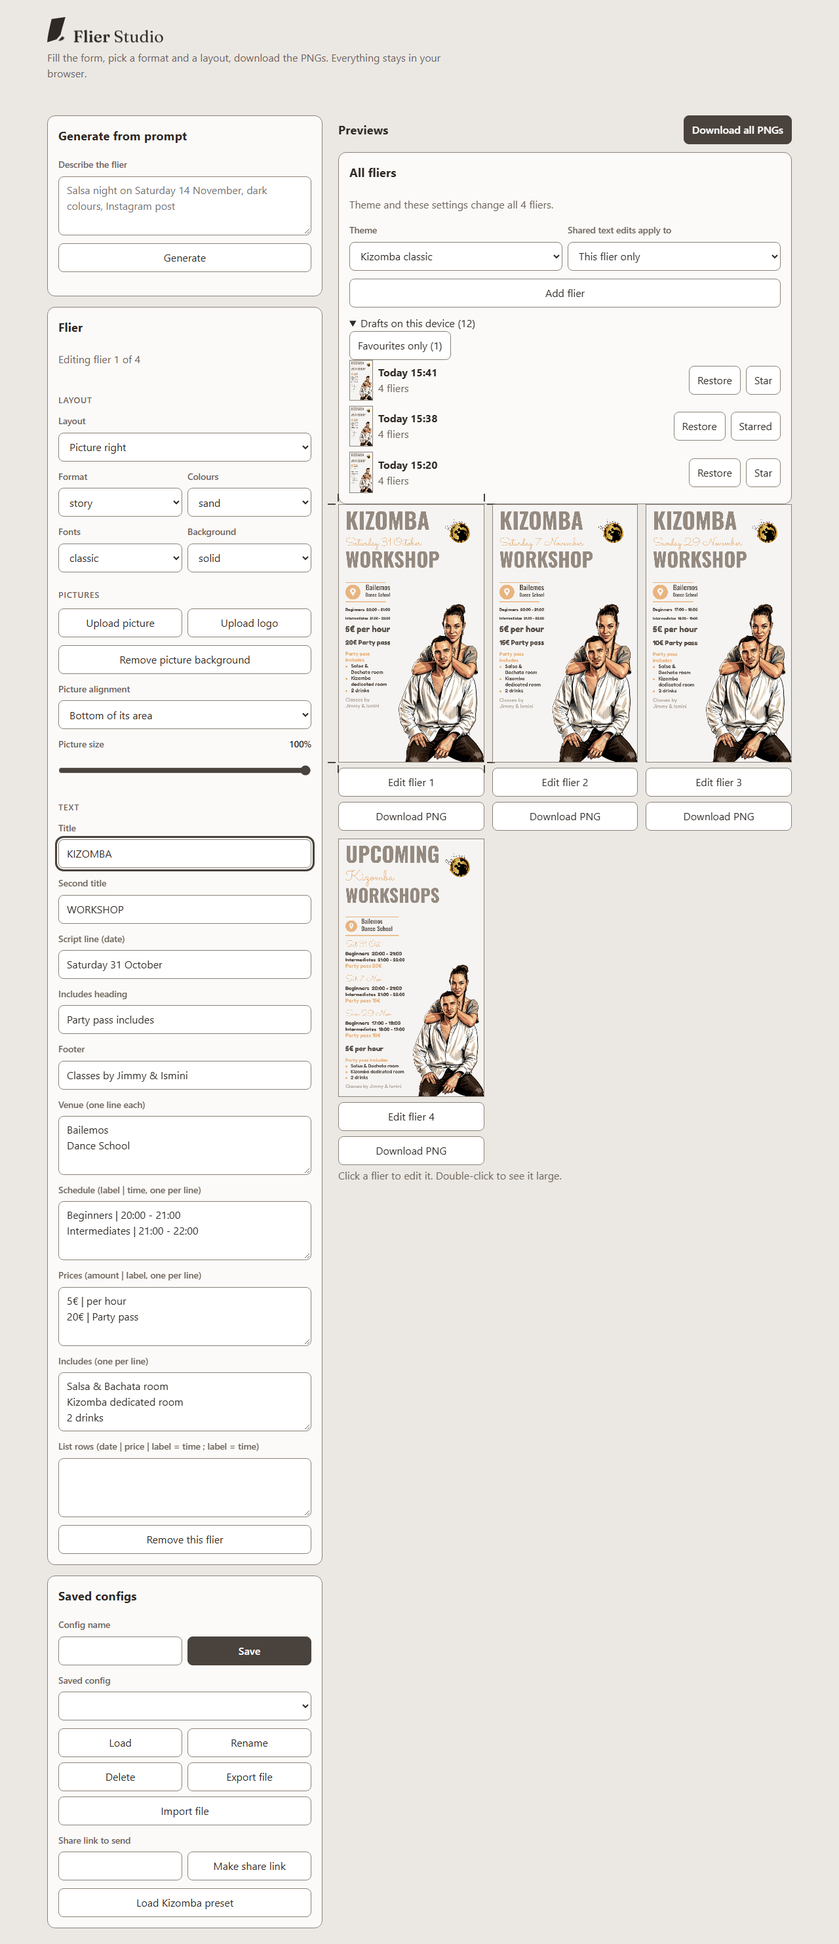
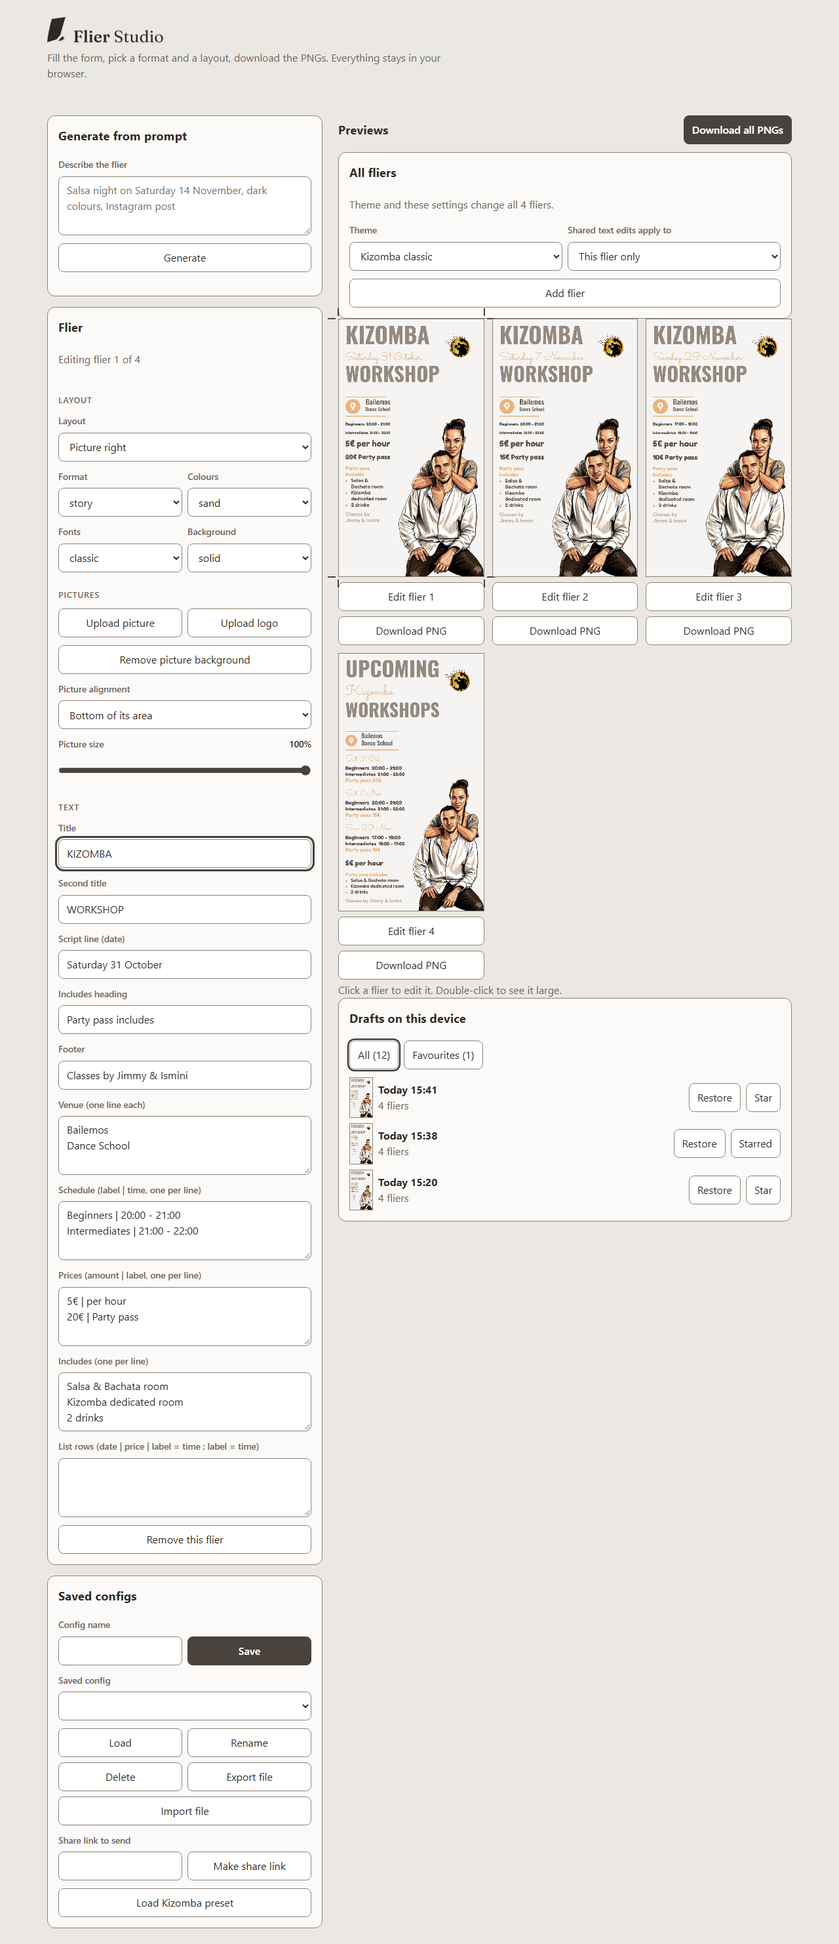
docs(design): FLIER-2 "Flier Studio follow-ups" AC-18..23 options r2
visual-review: docs/design/FLIER-2-AC18-20/critique-2026-10-28.md

diff --git a/docs/design/FLIER-2-AC18-20/index.html b/docs/design/FLIER-2-AC18-20/index.html
@@ -112,14 +112,14 @@ td, th { border-top: 1px solid var(--line); padding: 6px 8px; text-align: left; 
 </head>
 <body>
 <main>
-<p class="withdrawn" role="note">Withdrawn — do not pick. design-critic 2026-10-28: A REDO (fliers pushed below the desktop fold), B and C REDO (hard fail: "Add flier / Download all PNGs" row misaligned at 360; C also clips the drafts strip and the enlarged flier). Redrawn options will replace this page. Score sheet: critique-2026-10-28.md.</p>
+<p class="withdrawn" role="note">Critic pending — do not pick. Round 2 (2026-10-28) applies every fix from critique-2026-10-28.md; design-critic has not judged it yet.</p>
 <h1>Where the settings for all fliers live</h1>
-<p class="meta">FLIER-2 "Flier Studio follow-ups", AC-18 select on click · AC-19 "All fliers" section · AC-20 double-click enlarge · AC-21..23 drafts and favourites (D11, D12). Before = live https://fliers.dloizides.com at 98ca2bc; after = the same build with the option drawn in by moving its real controls (mockup, `mockups.ts`). Same route, steps, fixture (Kizomba preset, 4 fliers, fresh storage), viewport and anchor on both sides (`result.json`, pairMethod same-steps). Inventory: 63 items for the one role, Visitor (task folder `FLIER-2-AC18-20-inventory.md`); "Theme applies to" is dropped by D11 in every option.</p>
+<p class="meta">FLIER-2 "Flier Studio follow-ups", AC-18 select on click · AC-19 "All fliers" section · AC-20 double-click enlarge · AC-21..23 drafts and favourites (D11, D12). Before = live https://fliers.dloizides.com at 98ca2bc; after = the same build with the option drawn in by moving its real controls (mockup, `mockups.ts`). Same route, steps, fixture (Kizomba preset, 4 fliers, fresh storage), viewport and anchor on both sides (`result.json`, pairMethod same-steps). Inventory: 52/52 first-load items for the one role, Visitor, measured in `result.json` (63 rows in `FLIER-2-AC18-20-inventory.md`: 11 are state-only and not on any first-load frame; "Theme applies to" is dropped by D11 in every option). Round 2 probes, run on every frame and failing the capture run on a miss: side-by-side form controls share top edge and height within 1px; the enlarged flier and its buttons sit inside 360x640 and 1280x800 with no scrolling; no text leaves its card.</p>
 
-<article data-option="A" data-inventory="63/63" data-aligned="pass" data-result="result.json">
+<article data-option="A" data-inventory="52/52" data-aligned="pass" data-result="result.json">
 <h2>A. "All fliers" card on top of the previews</h2>
-<p>Theme and "Shared text edits apply to" sit side by side in one card above the fliers they change, with Add flier and the Drafts list under them. Click a flier to edit it; double-click opens the full-size sheet the phone bar already uses.</p>
-<p class="meta"><strong>Inventory:</strong> 63/63 (4 moved into the card, 1 dropped D11) · form rows aligned: pass (0 rows off by more than 1px) · Drafts: open disclosure in the card, Favourites only toggle, Restore + Star per draft.</p>
+<p>Theme and "Shared text edits apply to" sit side by side in one short card above the fliers they change, with Add flier under them; the first flier starts at y = 485 at 1280 (round 1: 767). Drafts get their own card under the previews with an All (12) / Favourites (1) filter. Click a flier to edit it; double-click opens the full-size sheet the phone bar already uses.</p>
+<p class="meta"><strong>Inventory:</strong> 52/52 (4 moved into the card, 1 dropped D11) · form rows aligned: pass (top + height, 0 pairs off by more than 1px) · enlarge fits 360x640 and 1280x800 · Drafts: own card under the previews, All / Favourites chips, Restore + Star per draft.</p>
 <h3>First load, 1280x800, full page</h3>
 <div class="pair"><figure data-visual="before"><div class="scroll"><img src="before-load-1280.png" alt="Before at 1280: Theme and Theme applies to at the top of the Flier card"></div><figcaption>Before</figcaption></figure><figure data-visual="after"><div class="scroll"><img src="A-load-1280.png" alt="After A at 1280: All fliers card above the preview grid with Theme, scope, Add flier and Drafts"></div><figcaption>After</figcaption></figure></div>
 <h3>First load, 360x640, full page</h3>
@@ -130,10 +130,10 @@ td, th { border-top: 1px solid var(--line); padding: 6px 8px; text-align: left; 
 <table><tr><th>Screen</th><th>Focused on open (FOCUS-1)</th><th>Why</th></tr><tr><td>Studio</td><td>Title field at ≥1024, none on phone (today)</td><td>The title is the first thing to change; no keyboard pop on phone</td></tr><tr><td>Enlarge sheet</td><td>Close</td><td>Looking is the job; Close (or Esc) returns focus to the flier</td></tr></table>
 </article>
 
-<article data-option="B" data-inventory="63/63" data-aligned="pass" data-result="result.json">
+<article data-option="B" data-inventory="52/52" data-aligned="pass" data-result="result.json">
 <h2>B. "All n fliers" card first in the controls column</h2>
-<p>Everything that acts on the whole set gathers in one card above the Flier form: Theme, the shared-edits scope, Add flier, Download all and the share link. Drafts join the saved sets card. Double-click opens a larger dialog that steps through the set.</p>
-<p class="meta"><strong>Inventory:</strong> 63/63 (6 moved into the card, 1 dropped D11) · form rows aligned: pass · Drafts: in "Saved sets", All drafts / Favourites switch.</p>
+<p>Everything that acts on the whole set gathers in one card above the Flier form: Theme, the shared-edits scope, Add flier, Download all and the share link. Below 400px wide, Add flier and Download all PNGs stack full width; wider, they share one row at one height. Drafts get their own card under Saved configs. Double-click opens a larger dialog that steps through the set.</p>
+<p class="meta"><strong>Inventory:</strong> 52/52 (6 moved into the card, 1 dropped D11) · form rows aligned: pass (top + height) · enlarge fits both viewports · Drafts: own card, All / Favourites chips.</p>
 <h3>First load, 1280x800, full page</h3>
 <div class="pair"><figure data-visual="before"><div class="scroll"><img src="before-load-1280.png" alt="Before at 1280"></div><figcaption>Before</figcaption></figure><figure data-visual="after"><div class="scroll"><img src="B-load-1280.png" alt="After B at 1280: All 4 fliers card between Prompt and Flier"></div><figcaption>After</figcaption></figure></div>
 <h3>First load, 360x640, full page</h3>
@@ -144,10 +144,10 @@ td, th { border-top: 1px solid var(--line); padding: 6px 8px; text-align: left; 
 <table><tr><th>Screen</th><th>Focused on open (FOCUS-1)</th><th>Why</th></tr><tr><td>Studio</td><td>Title field at ≥1024, none on phone (today)</td><td>Unchanged</td></tr><tr><td>Enlarge dialog</td><td>Next flier</td><td>The dialog is for checking the set; Esc returns focus to the flier</td></tr></table>
 </article>
 
-<article data-option="C" data-inventory="63/63" data-aligned="pass" data-result="result.json">
+<article data-option="C" data-inventory="52/52" data-aligned="pass" data-result="result.json">
 <h2>C. Sticky set bar with one chip per theme</h2>
-<p>A bar pinned to the top of the previews while they scroll: one chip per theme, so a switch is one tap and its effect is in view, plus the scope, Add flier and Download all. Drafts run as a thumbnail strip under the fliers. Double-click opens the full-size sheet with the flier number and a Download.</p>
-<p class="meta"><strong>Inventory:</strong> 63/63 (Theme select becomes chips, 4 moved into the bar, 1 dropped D11) · form rows aligned: pass · Drafts: strip below the previews, All / Favourites chips.</p>
+<p>A bar pinned to the top of the previews while they scroll: one chip per theme, so a switch is one tap and its effect is in view, plus the scope, Add flier and Download all. Add flier and Download all PNGs stack below 400px wide. Drafts sit as thumbnail tiles under the fliers, wrapping to two per row on a phone so no tile is cut. Double-click opens the full-size sheet with the flier number and a Download, sized so the whole flier and its buttons fit 360x640 and 1280x800.</p>
+<p class="meta"><strong>Inventory:</strong> 52/52 (Theme select becomes chips, 4 moved into the bar, 1 dropped D11) · form rows aligned: pass (top + height) · enlarge fits both viewports · Drafts: wrapping tiles below the previews, All / Favourites chips.</p>
 <h3>First load, 1280x800, full page</h3>
 <div class="pair"><figure data-visual="before"><div class="scroll"><img src="before-load-1280.png" alt="Before at 1280"></div><figcaption>Before</figcaption></figure><figure data-visual="after"><div class="scroll"><img src="C-load-1280.png" alt="After C at 1280: set bar with theme chips above the grid, Drafts strip below"></div><figcaption>After</figcaption></figure></div>
 <h3>First load, 360x640, full page</h3>
@@ -160,11 +160,11 @@ td, th { border-top: 1px solid var(--line); padding: 6px 8px; text-align: left; 
 
 <div class="q" data-qid="q1"><p class="qn"><span class="qi">Q1</span> Which layout should Flier Studio build for the "All fliers" settings, drafts and enlarge view?</p>
 <ul class="opts">
-<li data-letter="A"><span class="lt">A</span><span>"All fliers" card on top of the previews, drafts inside it, the existing full-size sheet</span></li>
-<li data-letter="B"><span class="lt">B</span><span>"All n fliers" card first in the controls, drafts in Saved sets, a stepping dialog</span></li>
+<li data-letter="A"><span class="lt">A</span><span>"All fliers" card on top of the previews, drafts in their own card under the fliers, the existing full-size sheet</span></li>
+<li data-letter="B"><span class="lt">B</span><span>"All n fliers" card first in the controls, drafts in their own card, a stepping dialog</span></li>
 <li data-letter="C"><span class="lt">C</span><span>Sticky set bar with theme chips, drafts strip under the fliers, full-size sheet with Download</span></li>
 </ul>
-<p class="why">All three keep 63/63 items and select a flier on click. They differ in where the whole-set settings sit relative to the fliers they change.</p></div>
+<p class="why">All three keep 52/52 first-load items and select a flier on click. They differ in where the whole-set settings sit relative to the fliers they change.</p></div>
 </main>
 </body>
 </html>

diff --git a/docs/design/FLIER-2-AC18-20/mockups.ts b/docs/design/FLIER-2-AC18-20/mockups.ts
@@ -25,14 +25,20 @@ export function mockup(side: string): void {
     .mk-drafts { display: grid; gap: 8px; margin: 0; padding: 0; list-style: none; }
     .mk-drafts li { display: grid; grid-template-columns: auto 1fr auto auto; gap: 8px; align-items: center; }
     .mk-drafts canvas { border: 1px solid var(--border); display: block; }
-    .mk-strip { display: flex; gap: var(--gap); overflow-x: auto; padding-bottom: 4px; }
-    .mk-strip li { grid-template-columns: auto; justify-items: start; min-width: 96px; }
+    .mk-strip { display: grid; grid-template-columns: repeat(auto-fill, minmax(112px, 1fr)); gap: var(--gap); }
+    .mk-strip li { grid-template-columns: auto; justify-items: start; min-width: 0; }
+    .mk-strip li > * { max-width: 100%; }
+    .mk-strip button { width: 100%; }
+    .row.mk-pair { display: grid; grid-template-columns: 1fr 1fr; align-items: stretch; }
+    .row.mk-pair > * { width: 100%; }
+    @media (max-width: 400px) { .row.mk-pair { grid-template-columns: 1fr; } }
     .mk-chips { display: flex; flex-wrap: wrap; gap: 8px; }
     .mk-chips button { width: auto; flex: 0 0 auto; }
     .mk-chips [aria-pressed="true"] { outline: 2px solid currentColor; outline-offset: 1px; }
     .mk-bar { position: sticky; top: 0; z-index: 2; }
     .mk-big { max-width: min(92vw, 720px); }
     .mk-big canvas { display: block; max-width: 100%; max-height: calc(100dvh - 300px); width: auto; height: auto; margin: 0 auto; }
+    .mini-sheet.mk-sheet-c canvas { max-height: calc(100dvh - 220px); }
   ` }));
 
   const label = (id: string): HTMLElement => q(id).closest('label') as HTMLElement;
@@ -51,34 +57,30 @@ export function mockup(side: string): void {
   const grid = q('preview-grid');
   grid.after(hint);
 
+  const draftsCard = (list: HTMLElement): HTMLElement => mk('section', { class: 'card', 'data-testid': 'drafts-panel' }, [
+    mk('h2', { text: 'Drafts on this device' }),
+    mk('div', { class: 'mk-chips', role: 'group', 'aria-label': 'Show drafts' }, [Object.assign(btn('All (12)', 'drafts-all'), { ariaPressed: 'true' }), Object.assign(btn('Favourites (1)', 'drafts-favourites'), { ariaPressed: 'false' })]),
+    list,
+  ]);
   if (side === 'A') {
     const card = mk('section', { class: 'card', 'data-testid': 'all-fliers' }, [
       mk('h2', { text: 'All fliers' }),
       mk('p', { class: 'muted', text: `Theme and these settings change all ${String(count)} fliers.` }),
       mk('div', { class: 'row' }, [themeLabel, scopeLabel]),
       mk('div', { class: 'row' }, [q('add-flier')]),
-      mk('details', { open: '', 'data-testid': 'drafts-panel' }, [
-        mk('summary', { text: 'Drafts on this device (12)' }),
-        mk('div', { class: 'mk-chips' }, [Object.assign(btn('Favourites only (1)', 'drafts-favourites'), { ariaPressed: 'false' })]),
-        draftRows(''),
-      ]),
     ]);
     previews.querySelector('.row.head')?.after(card);
+    hint.after(draftsCard(draftRows('')));
   }
   if (side === 'B') {
     const card = mk('section', { class: 'card', 'data-testid': 'all-fliers' }, [
       mk('h2', { text: `All ${String(count)} fliers` }),
       mk('div', { class: 'row' }, [themeLabel, scopeLabel]),
-      mk('div', { class: 'row' }, [q('add-flier'), q('download-all')]),
+      mk('div', { class: 'row mk-pair' }, [q('add-flier'), q('download-all')]),
       q('config-share').closest('.row') as HTMLElement,
     ]);
     q('flier-form').before(card);
-    const config = q('config-name').closest('section') as HTMLElement;
-    config.querySelector('h2')?.after(mk('div', { 'data-testid': 'drafts-panel' }, [
-      mk('h3', { text: 'Drafts on this device' }),
-      mk('div', { class: 'row', role: 'group', 'aria-label': 'Show' }, [Object.assign(btn('All drafts (12)', 'drafts-all'), { ariaPressed: 'true' }), Object.assign(btn('Favourites (1)', 'drafts-favourites'), { ariaPressed: 'false' })]),
-      draftRows(''),
-    ]));
+    (q('config-name').closest('section') as HTMLElement).after(draftsCard(draftRows('')));
   }
   if (side === 'C') {
     const pick = q<HTMLSelectElement>('pick-theme');
@@ -88,14 +90,10 @@ export function mockup(side: string): void {
     const bar = mk('section', { class: 'card mk-bar', 'data-testid': 'all-fliers' }, [
       mk('h2', { text: `All ${String(count)} fliers · theme` }), chips,
       mk('div', { class: 'row' }, [scopeLabel]),
-      mk('div', { class: 'row' }, [q('add-flier'), q('download-all')]),
+      mk('div', { class: 'row mk-pair' }, [q('add-flier'), q('download-all')]),
     ]);
     previews.querySelector('.row.head')?.after(bar);
-    hint.after(mk('section', { class: 'card', 'data-testid': 'drafts-panel' }, [
-      mk('h2', { text: 'Drafts on this device' }),
-      mk('div', { class: 'mk-chips' }, [Object.assign(btn('All (12)', 'drafts-all'), { ariaPressed: 'true' }), Object.assign(btn('Favourites (1)', 'drafts-favourites'), { ariaPressed: 'false' })]),
-      draftRows('mk-strip'),
-    ]));
+    hint.after(draftsCard(draftRows('mk-strip')));
   }
 
   const enlarge = (fig: HTMLElement): void => {
@@ -120,6 +118,7 @@ export function mockup(side: string): void {
     full.width = src.width; full.height = src.height;
     full.getContext('2d')?.drawImage(src, 0, 0);
     sheet.setAttribute('aria-label', `Flier ${n}, full size`);
+    if (side === 'C') sheet.classList.add('mk-sheet-c');
     if (side === 'C') q('mini-close').before(mk('div', { class: 'row' }, [mk('span', { class: 'muted', text: `Flier ${n} of ${String(count)} · Esc closes` }), btn(`Download flier ${n}`, 'enlarge-download')]));
     document.body.append(sheet);
     sheet.showModal();

diff --git a/docs/design/FLIER-2-AC18-20/capture.spec.ts b/docs/design/FLIER-2-AC18-20/capture.spec.ts
@@ -1,4 +1,4 @@
-import { devices, test, type Page } from '@playwright/test';
+import { devices, expect, test, type Page } from '@playwright/test';
 import { mkdirSync, writeFileSync } from 'node:fs';
 import { join } from 'node:path';
 import { mockup } from './mockups';
@@ -12,27 +12,48 @@ const DEVICES = [
 ];
 const SIDES = ['before', 'A', 'B', 'C'];
 
-async function scan(page: Page): Promise<{ items: string[]; misaligned: string[][] }> {
+interface Scan { items: string[]; misaligned: string[][]; fit: string[]; textFit: string[] }
+
+async function scan(page: Page): Promise<Scan> {
   return page.evaluate(() => {
     const box = (n: Element): DOMRect => ((n as HTMLInputElement).type === 'file' && n.parentElement ? n.parentElement : n).getBoundingClientRect();
+    const name = (n: Element): string => n.getAttribute('data-testid') ?? `${n.tagName}:${(n.textContent ?? '').trim().slice(0, 24)}`;
     const items = [...document.querySelectorAll('[data-testid]')].filter((n) => { const r = box(n); return r.width > 1 && r.height > 1; })
       .map((n) => (n.getAttribute('data-testid') ?? '').replace(/-\d+$/, '-n'));
     const controls = (row: Element): Element[] => [...row.children]
       .map((c) => (c.matches('input, select, textarea, button, .file') ? c : c.querySelector('input:not([type=file]), select, textarea, button, .file')))
-      .filter((c): c is Element => c !== null);
-    const misaligned = [...document.querySelectorAll('main .row, dialog .row')].map(controls).filter((cs) => cs.length > 1)
-      .filter((cs) => { const rs = cs.map((c) => c.getBoundingClientRect()); return rs.some((r) => Math.abs(r.bottom - rs[0].bottom) > 1 && Math.abs(r.top - rs[0].top) < r.height); })
-      .map((cs) => cs.map((c) => c.getAttribute('data-testid') ?? c.tagName));
-    return { items: [...new Set(items)].sort(), misaligned };
+      .filter((c): c is Element => c !== null && box(c).height > 1);
+    const sameLine = (a: DOMRect, b: DOMRect): boolean => a.top < b.bottom - 1 && b.top < a.bottom - 1;
+    const off = (a: DOMRect, b: DOMRect): boolean => Math.abs(a.top - b.top) > 1 || Math.abs(a.height - b.height) > 1;
+    const say = (n: Element): string => { const r = box(n); return `${name(n)} top ${r.top.toFixed(0)} h ${r.height.toFixed(0)}`; };
+    const misaligned = [...document.querySelectorAll('main .row, dialog[open] .row')].map(controls).filter((cs) => cs.length > 1)
+      .flatMap((cs) => cs.flatMap((a, i) => cs.slice(i + 1).filter((b) => sameLine(box(a), box(b)) && off(box(a), box(b))).map((b) => [say(a), say(b)])));
+    const vw = innerWidth; const vh = innerHeight;
+    const fit = [...document.querySelectorAll('dialog[open]')].flatMap((d) => {
+      const out: string[] = []; const r = d.getBoundingClientRect();
+      if (d.scrollHeight > d.clientHeight + 1) out.push(`${name(d)} scrolls ${String(d.scrollHeight)} > ${String(d.clientHeight)}`);
+      if (r.top < -0.5 || r.left < -0.5 || r.bottom > vh + 0.5 || r.right > vw + 0.5) out.push(`${name(d)} outside ${String(vw)}x${String(vh)}`);
+      d.querySelectorAll('canvas, button').forEach((c) => { const k = c.getBoundingClientRect(); if (k.top < r.top - 0.5 || k.bottom > r.bottom + 0.5 || k.top < 0 || k.bottom > vh + 0.5) out.push(`${name(c)} cut ${k.top.toFixed(0)}-${k.bottom.toFixed(0)}`); });
+      return out;
+    });
+    const scopes = [...document.querySelectorAll('[data-testid="all-fliers"], [data-testid="drafts-panel"], dialog[open]')];
+    const textFit = scopes.flatMap((sc) => { const c = sc.getBoundingClientRect(); return [...sc.querySelectorAll('button, strong, span, h2, h3, p, canvas')]
+      .filter((n) => { const r = n.getBoundingClientRect(); return r.width > 1 && (r.right > c.right + 0.5 || r.left < c.left - 0.5 || (n.tagName === 'BUTTON' && n.scrollWidth > n.clientWidth + 1)); })
+      .map((n) => `${name(sc)} > ${name(n)}`); });
+    return { items: [...new Set(items)].sort(), misaligned, fit, textFit };
   });
 }
 
 async function record(page: Page, side: string, shot: string, pair: Record<string, string>, fullPage: boolean): Promise<void> {
   const file = `${side}-${shot}.png`;
   await page.screenshot({ path: join(OUT, file), fullPage });
-  const { items, misaligned } = await scan(page);
-  const frame = { option: side, shot, side: side === 'before' ? 'before' : 'after', build: side === 'before' ? BUILD : `${BUILD} + mockup ${side}`, file, pair, visibleItems: items, formRows: { misaligned } };
+  const { items, misaligned, fit, textFit } = await scan(page);
+  const frame = { option: side, shot, side: side === 'before' ? 'before' : 'after', build: side === 'before' ? BUILD : `${BUILD} + mockup ${side}`, file, pair, visibleItems: items, formRows: { method: 'side-by-side pairs: top and height within 1px', misaligned }, enlargeFit: fit, textFit };
   writeFileSync(join(OUT, 'frames', `${side}-${shot}.json`), `${JSON.stringify(frame, null, 1)}\n`);
+  if (side === 'before') return;
+  expect.soft(misaligned, `${side} ${shot}: form row off by more than 1px`).toEqual([]);
+  expect.soft(fit, `${side} ${shot}: enlarged flier does not fit the viewport`).toEqual([]);
+  expect.soft(textFit, `${side} ${shot}: text outside its box`).toEqual([]);
 }
 
 async function ready(page: Page, side: string): Promise<void> {

diff --git a/docs/design/FLIER-2-AC18-20/index.md b/docs/design/FLIER-2-AC18-20/index.md
@@ -1,12 +1,12 @@
 # FLIER-2 "Flier Studio follow-ups" AC-18..23 options: where the settings for all fliers live
 
-Status: **Withdrawn — do not pick.** design-critic 2026-10-28: A REDO (taste #1 = 2), B REDO + C REDO (hard fail: form row at 360); `critique-2026-10-28.md`. Page: index.html (published artifact, link in the task doc). Before = live https://fliers.dloizides.com at 98ca2bc; after = the same build with the option drawn in by `mockups.ts`. Pairs: same route, steps, fixture, viewport, anchor (`result.json`, `pairMethod: same-steps`). Inventory 63 items, role Visitor: `BaseClient/docs/Tasks/TODO/flier-studio/FLIER-2-flier-studio-followups/FLIER-2-AC18-20-inventory.md`.
+Status: **Critic pending — do not pick.** Round 2 (2026-10-28) applies every fix in `critique-2026-10-28.md` (round 1: A REDO taste #1 = 2, B/C REDO form row at 360, C text-fit and enlarge). Probes now fail the capture run on a miss: form rows compare top + height, the enlarged flier must fit 360x640 and 1280x800, no text outside its card.
 
 | Option | Inventory | Aligned | All fliers section | Drafts + Favourites | Enlarge (double-click) | Focus on enlarge |
 |---|---|---|---|---|---|---|
-| A | 63/63 | pass | card on top of the previews: Theme + shared-edits scope, Add flier | open disclosure in the same card, Favourites only toggle | existing full-size sheet (mini-sheet) | Close |
-| B | 63/63 | pass | card first in the controls: Theme + scope, Add flier + Download all, share link | inside Saved sets, All drafts / Favourites | new dialog, Previous / Next / Download / Close | Next flier |
-| C | 63/63 | pass | sticky bar over the previews: theme chips, scope, Add flier + Download all | thumbnail strip under the previews, All / Favourites chips | full-size sheet + "Flier x of y" + Download | Close |
+| A | 52/52 | pass | card on top of the previews: Theme + shared-edits scope, Add flier | own card under the previews, All / Favourites chips | existing full-size sheet (mini-sheet) | Close |
+| B | 52/52 | pass | card first in the controls: Theme + scope, Add flier + Download all, share link | own card under Saved configs, All / Favourites chips | new dialog, Previous / Next / Download / Close | Next flier |
+| C | 52/52 | pass | sticky bar over the previews: theme chips, scope, Add flier + Download all | wrapping tiles under the previews, All / Favourites chips | full-size sheet + "Flier x of y" + Download | Close |
 
 All options: click anywhere on a flier selects it (Edit flier n stays as the keyboard path), "Theme applies to" dropped by D11 (theme is global only). Frames: `before-*.png`, `A|B|C-*.png`, `frames/*.json`. Re-run: `npx playwright test -c docs/design/FLIER-2-AC18-20/capture.config.ts && node docs/design/FLIER-2-AC18-20/build-result.mjs`.
 
